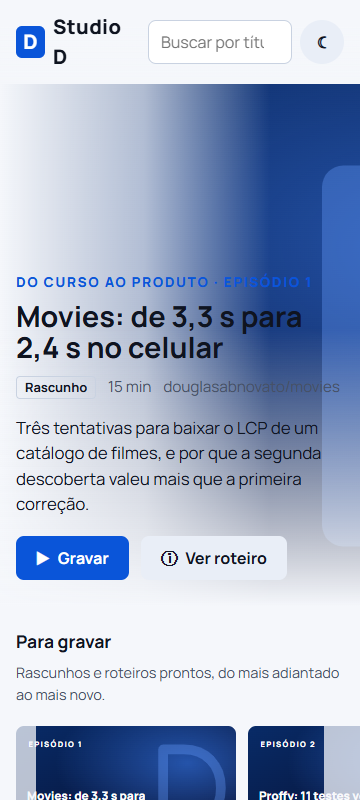
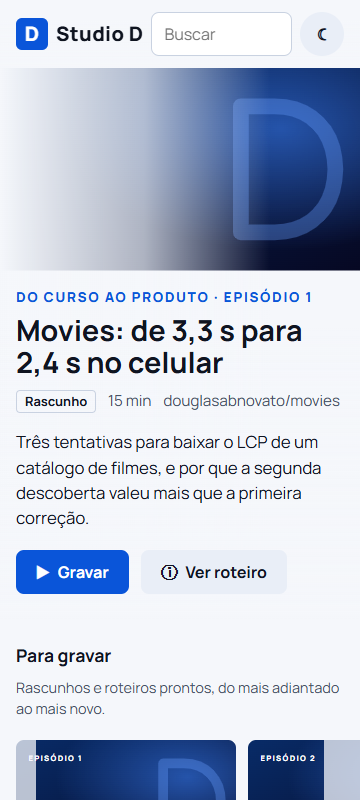
fix(topo): cabeçalho e destaque inteiros em 360 px (#79)
- O nome "Studio D" fica em uma linha; a busca ocupa o espaço que sobra.
- O texto de exemplo da busca vira "Buscar" e cabe em todas as larguras
  (antes era cortado também em 768 e 1440 px). O rótulo para leitor de
  tela continua "Buscar roteiros".
- O link do nome tem 44 px de alvo de toque (era 32 px no computador).
- No celular, a arte do destaque aparece inteira (16:9) no alto, e o
  texto do destaque começa abaixo dela.
- e2e novo, só no projeto celular, em 360 px; falha sem a correção.
- Captura do README em 360 px trocada pela tela corrigida.

diff --git a/e2e/fluxo.spec.ts b/e2e/fluxo.spec.ts
@@ -127,3 +127,30 @@ test('o texto do roteiro só é baixado ao abrir o roteiro (#56)', async ({ page
   await expect(page.getByRole('heading', { name: 'Fontes' })).toBeVisible();
   expect(pedidos.filter(doRoteiro).length).toBeGreaterThan(0);
 });
+
+test('cabeçalho e destaque inteiros em 360 px (#79)', async ({ page }, info) => {
+  test.skip(info.project.name !== 'celular', 'mede a largura de 360 px');
+  await page.setViewportSize({ width: 360, height: 800 });
+  await abrir(page, './', info.project.name);
+  const nome = page.locator('.marca span', { hasText: 'Studio D' }).first();
+  const caixa = await nome.boundingBox();
+  const linha = await nome.evaluate((e) => parseFloat(getComputedStyle(e).fontSize) * 1.6);
+  expect(caixa!.height).toBeLessThan(linha);
+  const busca = page.getByRole('searchbox', { name: 'Buscar roteiros' });
+  const cabe = await busca.evaluate((e: HTMLInputElement) => {
+    const s = getComputedStyle(e);
+    const c = document.createElement('canvas').getContext('2d')!;
+    c.font = `${s.fontWeight} ${s.fontSize} ${s.fontFamily}`;
+    return c.measureText(e.placeholder).width <= e.clientWidth - parseFloat(s.paddingLeft) - parseFloat(s.paddingRight);
+  });
+  expect(cabe).toBe(true);
+  for (const alvo of await page.locator('.topo a, .topo button, .topo input').all()) {
+    const r = await alvo.boundingBox();
+    expect(Math.min(r!.width, r!.height)).toBeGreaterThanOrEqual(44);
+  }
+  const capa = await page.locator('.destaque-capa svg').boundingBox();
+  expect(capa!.width / capa!.height).toBeCloseTo(16 / 9, 1);
+  const conteudo = await page.locator('.destaque-conteudo').boundingBox();
+  expect(conteudo!.y).toBeGreaterThanOrEqual(capa!.y + capa!.height);
+  expect(await page.evaluate(() => document.documentElement.scrollWidth <= innerWidth)).toBe(true);
+});

diff --git a/src/styles.css b/src/styles.css
@@ -147,6 +147,9 @@ a {
   font-weight: 800;
   font-size: 1.25rem;
   letter-spacing: 0.02em;
+  min-height: 44px;
+  white-space: nowrap;
+  flex-shrink: 0;
 }
 .marca-d {
   display: inline-grid;
@@ -229,6 +232,31 @@ a {
   display: flex;
   flex-wrap: wrap;
   gap: 12px;
+}
+
+/* Celular: o nome fica em uma linha, a busca ocupa o espaço que sobra e a arte do destaque aparece inteira no alto (#79). */
+@media (max-width: 599px) {
+  .topo {
+    gap: 8px;
+  }
+  .topo-acoes {
+    flex: 1 1 0;
+    min-width: 0;
+    justify-content: flex-end;
+  }
+  .busca {
+    flex: 1 1 0;
+    min-width: 0;
+    width: auto;
+  }
+  .destaque {
+    min-height: 0;
+    padding-top: calc(100vw * 9 / 16 + 16px);
+  }
+  .destaque-capa {
+    bottom: auto;
+    aspect-ratio: 16 / 9;
+  }
 }
 
 .metadados {

diff --git a/src/components/Topo.tsx b/src/components/Topo.tsx
@@ -33,7 +33,7 @@ export function Topo({ busca, onBusca }: Props) {
               id="busca"
               className="busca"
               type="search"
-              placeholder="Buscar por título ou repositório"
+              placeholder="Buscar"
               value={busca}
               onChange={(e) => onBusca(e.target.value)}
             />
